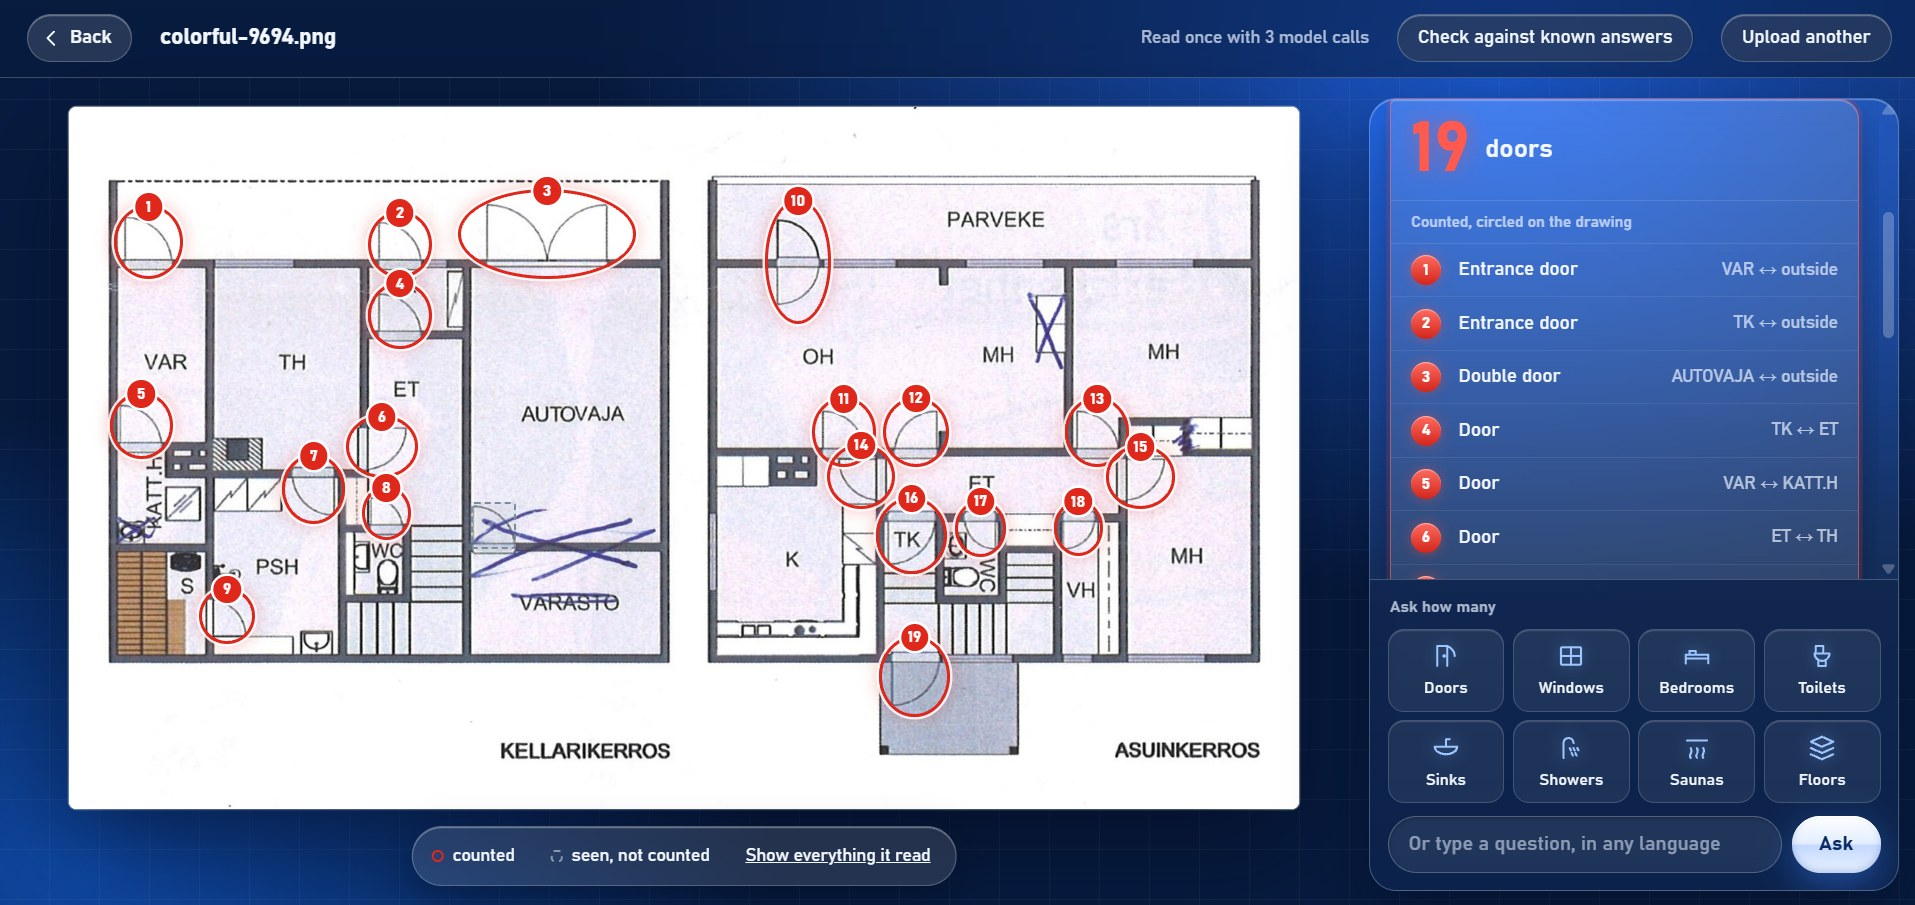
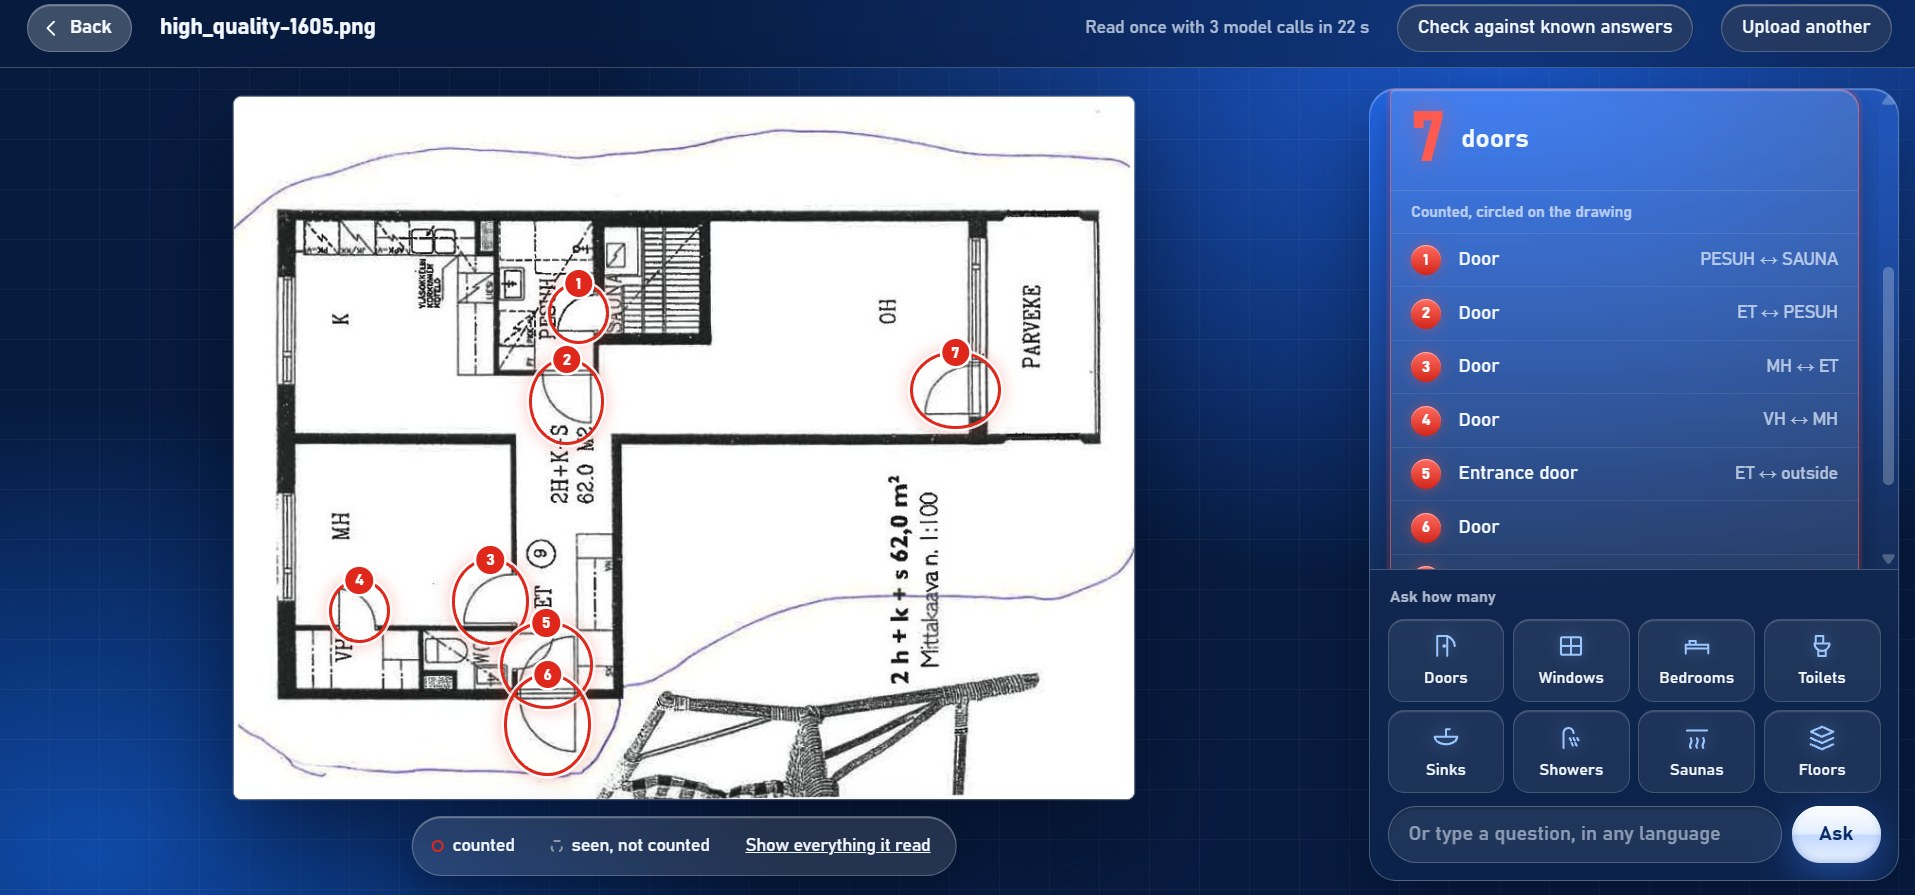
Use the high_quality-1605 screenshot in the README

diff --git a/README.md b/README.md
@@ -8,7 +8,7 @@ numbered on the drawing, so a person can check the answer in seconds.
 
 **Live demo: http://70.34.222.185**
 
-![A floor plan with 19 doors circled and numbered, next to the list of counted doors](docs/screenshot.jpg)
+![A scanned floor plan with pen markings, its 7 doors circled and numbered, next to the list of counted doors](docs/screenshot.jpg)
 
 ## How it works
 
@@ -71,4 +71,4 @@ Code: MIT (`LICENSE`). Example plans: CubiCasa5K (Kalervo, Ylioinas, Häikiö, K
 https://zenodo.org/records/2613548), licensed CC BY-NC-SA 4.0
 (https://creativecommons.org/licenses/by-nc-sa/4.0/), as distributed in the Stoa Junction 2026
 challenge dataset, some with markings added there; see `examples/LICENSE.md`. The screenshot shows
-one of these plans. Vision models: Claude Sonnet 5.5 and Claude Fable 5.2 (Anthropic).
+another plan from the same source and license (`high_quality-1605`). Vision models: Claude Sonnet 5.5 and Claude Fable 5.2 (Anthropic).
